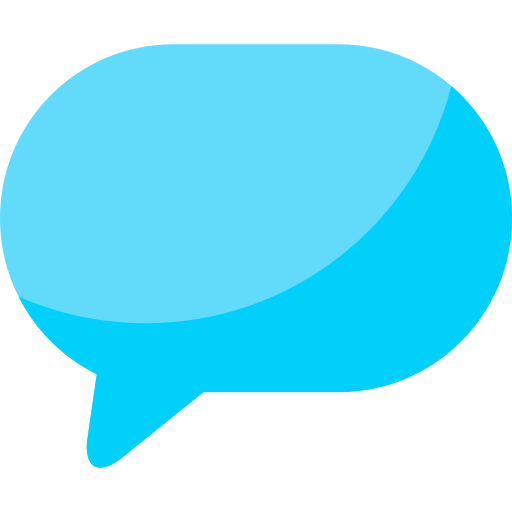
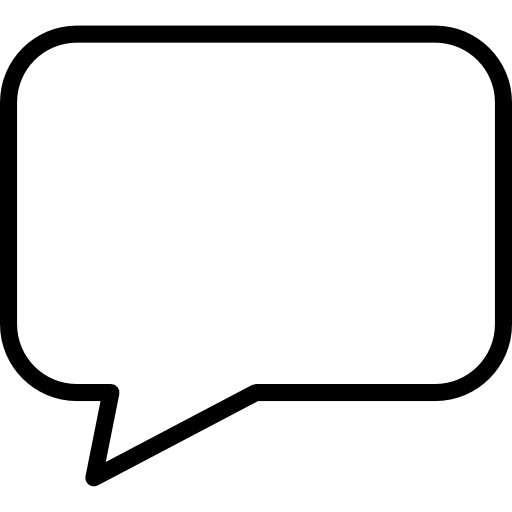
Started on tweet comments. Added some logic

diff --git a/src/components/FeedTweetChild.vue b/src/components/FeedTweetChild.vue
@@ -1,5 +1,4 @@
 <template>
-
     <div>
     <v-card
     class="mx-auto"
@@ -34,19 +33,26 @@
         <v-list-item-content>
           <v-list-item-title><router-link :to="{ name: 'OtherProfilesView', params: { user: username }}">{{ username }}</router-link></v-list-item-title>
         </v-list-item-content>
-
+        
         <v-row
           align="center"
           justify="end"
         >
         <!-- Embed a button around v-icon for click-->
+        <img id="commentIcon" @click="showModal" :src="require('@/assets/speech-bubble.png')"/>
+        <div class="modal" v-if="showModal">
+            <h1>Lorem Ipsum</h1>
+            <button class="button" @click="showModal">Close Modal</button>
+        </div>
+        <v-spacer></v-spacer>
+
           <div :class="{ likedDisplay: toggleLike }"> 
                 <v-icon @click="checkTweetLiked" class="mr-1">
                 mdi-thumb-up
                  </v-icon>
           </div>
         
-          <span class="subheading mr-2">{{ tweetId }} - {{ tweetLikeCounter }}</span>
+          <span class="subheading mr-2">{{ tweetLikeCounter }}</span>
           <span class="mr-1">·</span>
        
               <button @click="retrieveUserId" class="myButton">Follow</button>
@@ -54,12 +60,9 @@
       </v-list-item>
     </v-card-actions>
   </v-card>
-        <!-- <router-link :to="{ name: 'OtherProfilesView', params: { user: username }}">GO TO PROFILE</router-link>
-        <div class="wrapper">
-            <h2>{{ tweetId }} - {{ username }} - {{ createdAt }}</h2>
-            
-            <v-btn @click="deleteTweet" color="red" elevation="2" Small>✕</v-btn>
-        </div>  -->
+   <!-- <transition name="fade" appear>
+            <div class="modal-overlay" v-if="showModal"></div>
+        </transition> -->
     </div>
 </template>
 
@@ -75,6 +78,7 @@ import cookies from 'vue-cookies'
                 currUserId: "",
                 tweetLikeCounter: "",
                 toggleLike: false,
+                toggleModal: false,
             }
         },
         props: {
@@ -84,6 +88,10 @@ import cookies from 'vue-cookies'
             createdAt: String
         },
         methods: {
+            showModal() {
+                this.toggleModal = !this.toggleModal;
+                console.log(this.toggleModal);
+            },
             deleteTweet() {
                 axios.request({
                     url: 'https://tweeterest.ml/api/tweets',
@@ -151,7 +159,6 @@ import cookies from 'vue-cookies'
                     data: {
                             "loginToken": this.userToken,
                             "tweetId": this.tweetId,
-                        
                     }
                 }).then(() => {
                     this.tweetLikeCounter += 1;
@@ -212,6 +219,7 @@ import cookies from 'vue-cookies'
                     console.error("There was an error: " +error);
                 })
             },
+
             getMyCookies() {
                 var getCookie = cookies.get('loginData');
                 this.userToken = getCookie.loginToken;
@@ -230,7 +238,6 @@ import cookies from 'vue-cookies'
     v-btn {
         width: 30%;
     }
-
     .myButton {
 	box-shadow:inset 0px -3px 7px 0px #29bbff;
 	background:linear-gradient(to bottom, #2dabf9 5%, #0688fa 100%);
@@ -253,6 +260,28 @@ import cookies from 'vue-cookies'
 }
 
 .likedDisplay {
-     box-shadow: 0px 0px 5px #fff;
+    transform: scale(1.2);
+    filter: invert(100%);
+}
+#commentIcon {
+    cursor: pointer;
+    height: 40px;
+}
+
+.fade-enter-active
+.fade-leave-active {
+transition: opacity 0.5s;
+}
+
+.fade-enter,
+.fade-leave-to {
+    opacity: 0;
+}
+.modal-overlay {
+    background-color: rgba(0,0,0,0.3);
+    height: 100vh;
+}
+.modal {
+    display: none;
 }
 </style>

diff --git a/src/components/FeedBody.vue b/src/components/FeedBody.vue
@@ -25,19 +25,10 @@
         >POST
         </v-btn>
 
-        <v-btn
-            @click=" filterFeedArr"
-            color="primary"
-            elevation="2"
-            large
-        >GET FOLLOWERS
-        </v-btn>
-        {{ newTweetObj.content }}
-    <!-- <FeedBodyTweetFeed :testProp="trigger"/> -->
-
     <FeedTweetChild v-for="tweet in alltweetData" 
-    :key="tweet.tweetId" 
-    :username="tweet.username" 
+    :key="tweet.tweetId"
+    :username="tweet.username"
+    :imageUrl="tweet.imageUrl"
     :tweetId="tweet.tweetId"
     :content="tweet.content"
     :createdAt="tweet.createdAt"/>
@@ -47,12 +38,10 @@
 <script>
 import axios from "axios"
 import cookies from 'vue-cookies'
-// import FeedBodyTweetFeed from './FeedBodyTweetFeed.vue'
 import FeedTweetChild from './FeedTweetChild.vue'
     export default {
         name: 'FeedBody',
         components : {
-            // FeedBodyTweetFeed,
             FeedTweetChild
         },
         data: () => {
@@ -77,7 +66,6 @@ import FeedTweetChild from './FeedTweetChild.vue'
                     data : {
                         "loginToken" : this.userToken,
                         "content" : this.content,
-                        "userId"  : "",
                     }
 
                 }).then((response) => {
@@ -87,10 +75,10 @@ import FeedTweetChild from './FeedTweetChild.vue'
                         userId : response.data.userId,
                         username : response.data.username,
                         content : response.data.content,
+                        createdAt : response.data.createdAt,
                         imageUrl : response.data.imageUrl,
                     }
-                    this.alltweetData.push(this.newTweetObj);
-                    this.newTweetObj.content = "";
+                    this.alltweetData.unshift(this.newTweetObj);
 
                 }).catch((error) => {
                     console.error("There was an error: " +error);
@@ -103,9 +91,6 @@ import FeedTweetChild from './FeedTweetChild.vue'
                     headers: {
                         'X-Api-Key' : process.env.VUE_APP_API_KEY,
                     },
-                    params: {
-                       
-                    }
                 }).then((response) => {
                     this.alltweetData = response.data;
                     this.filterFeedArr();
@@ -134,8 +119,11 @@ import FeedTweetChild from './FeedTweetChild.vue'
             },
             filterFeedArr() {
                 const newArrFeed = this.alltweetData.filter(tweet => this.followinguserIDs.includes(tweet.userId));
+                newArrFeed.sort(function(x,y){
+                    return new Date(y.createdAt) - new Date(x.createdAt);
+                })
+               
                 this.alltweetData = newArrFeed;
-                console.log(this.alltweetData);
             },
             getMyCookies() {
                 var getCookie = cookies.get('loginData');
@@ -148,7 +136,6 @@ import FeedTweetChild from './FeedTweetChild.vue'
         },
         mounted() {
             this.retrieveAllFollowers();
-            // this.retrieveAllLikes();
         }
     }
 </script>
